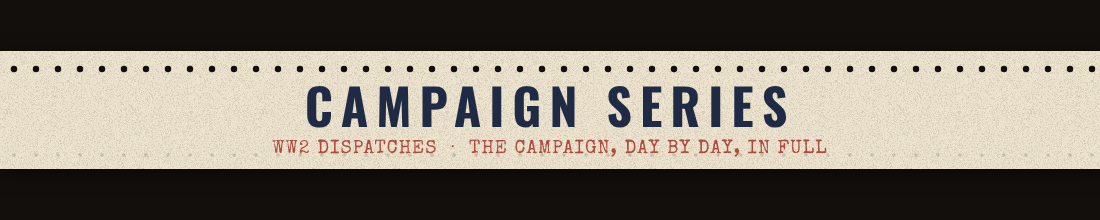
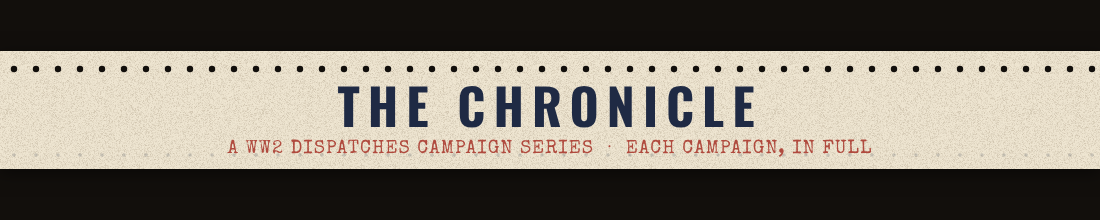
Campaign Series names: Day by Day (6:30 posts) and The Chronicle (Substack parts)
Claude-Session: https://claude.ai/code/session_01GNhz9ryDEhyVPfJv2sWR1J

Changed region(s): [[0.2782, 0.3818, 0.7418, 0.6], [0.1855, 0.6273, 0.8036, 0.7091]]

diff --git a/renderer/campaign_article.html b/renderer/campaign_article.html
@@ -13,7 +13,7 @@ body{margin:0}
    series reads as one thing, but built for Substack:
    cover  1456 x 1048 (Substack's 14:10 post thumbnail). Everything that matters sits inside the middle
           1456 x 762 band, so the 1.91:1 social crop (X, Facebook, link previews) keeps it all.
-          Tab: CAMPAIGN SERIES / series name / PART N OF M in red. Strip: the part title, then
+          Kicker: CAMPAIGN SERIES · series · THE CHRONICLE · PART N OF M. Strip: the part title, then
           BULLETINS · first date TO last date and WW2 DISPATCHES.
    banner 1100 x 220 (and 2200 x 440): the Campaign Series section's email banner. A cream teletype tape
           with feed holes across the dark night colour, no photo, so it fits every campaign. */
@@ -54,8 +54,10 @@ function cover(cv,img,p){
   const padX=64*s, innerW=W-2*padX;
   ctx.textBaseline="alphabetic"; ctx.textAlign="left";
   /* kicker */
-  const k1="CAMPAIGN SERIES  ·  "+(p.seriesName||"").toUpperCase()+"  ·  ", k2=`PART ${p.part} OF ${p.parts}`;
-  ctx.font=`500 ${24*s}px Oswald`; ctx.letterSpacing=`${5*s}px`;
+  const k1="CAMPAIGN SERIES  ·  "+(p.seriesName||"").toUpperCase()+"  ·  THE CHRONICLE  ·  ", k2=`PART ${p.part} OF ${p.parts}`;
+  let kf=24*s; ctx.letterSpacing=`${5*s}px`;
+  for(;kf>17*s;kf-=0.5*s){ctx.font=`500 ${kf}px Oswald`; if(ctx.measureText(k1+k2).width<=innerW) break;}
+  ctx.font=`500 ${kf}px Oswald`;
   const ky=ph+58*s; ctx.fillStyle=INK; ctx.fillText(k1,padX,ky);
   const k1w=ctx.measureText(k1).width; ctx.fillStyle=RED; ctx.fillText(k2,padX+k1w,ky);
   /* title */
@@ -88,9 +90,9 @@ function banner(cv){
   for(let x=14*s;x<W;x+=22*s){for(const yy of [th-14*s]){ctx.beginPath(); ctx.arc(x,ty+yy,1.8*s,0,Math.PI*2); ctx.fill();}}
   ctx.textBaseline="alphabetic"; ctx.textAlign="center";
   ctx.font=`700 ${50*s}px Oswald`; ctx.letterSpacing=`${8*s}px`; ctx.fillStyle=INK;
-  ctx.fillText("CAMPAIGN SERIES",W/2,ty+76*s);
+  ctx.fillText("THE CHRONICLE",W/2,ty+76*s);
   ctx.font=`400 ${19*s}px "Special Elite"`; ctx.letterSpacing=`${1*s}px`; ctx.fillStyle=RED;
-  ctx.fillText("WW2 DISPATCHES  ·  THE CAMPAIGN, DAY BY DAY, IN FULL",W/2,ty+102*s);
+  ctx.fillText("A WW2 DISPATCHES CAMPAIGN SERIES  ·  EACH CAMPAIGN, IN FULL",W/2,ty+102*s);
   ctx.textAlign="left";
 }
 window.renderCover=async function(p,photoDataUrl){

diff --git a/campaign-series/pearl-harbor-1941/articles/preview/part-01.html b/campaign-series/pearl-harbor-1941/articles/preview/part-01.html
@@ -35,7 +35,7 @@ a{color:#E9E1D0}
 </style></head><body>
 <div class="top"><span class="wm">WW2 DISPATCHES</span></div>
 <main>
-<div class="sec">CAMPAIGN SERIES</div>
+<div class="sec">CAMPAIGN SERIES · THE CHRONICLE</div>
 <h1>Pearl Harbor, Part 1: The Fleet Slips Away</h1>
 <p class="sub">26 to 29 November 1941. Six carriers vanish into the North Pacific while Washington warns of war everywhere but Hawaii, and in Tokyo the last voices for peace are heard and set aside.</p>
 <div class="by"><b>WW2 Dispatches</b> &nbsp;·&nbsp; Preview for 2026-11-30</div>
@@ -90,7 +90,7 @@ a{color:#E9E1D0}
 
 <hr />
 <p><em>Next: Part 2, 30 November to 3 December 1941.</em> A prince warns his brother the Emperor that the navy has doubts, Tokyo makes its final decision for war, and a coded signal tells the fleet to climb Mount Niitaka. Part 2 arrives Friday, 4 December.</p>
-<div class="strip"><h3>The daily dispatches, Days 1 to 4</h3><div class="grid"><img src="../../images/day-01-instagram.jpg"><img src="../../images/day-02-instagram.jpg"><img src="../../images/day-03-instagram.jpg"><img src="../../images/day-04-instagram.jpg"></div><p class="cap">The daily posts behind this part, as they ran at dawn on X, Instagram, Threads and Facebook.</p></div><h3>Sources</h3>
+<div class="strip"><h3>Day by Day: Days 1 to 4</h3><div class="grid"><img src="../../images/day-01-instagram.jpg"><img src="../../images/day-02-instagram.jpg"><img src="../../images/day-03-instagram.jpg"><img src="../../images/day-04-instagram.jpg"></div><p class="cap">The daily posts behind this part, as they ran at dawn on X, Instagram, Threads and Facebook.</p></div><h3>Sources</h3>
 <ul>
 <li>Track of the carrier task force: U.S. Army, <em>Reports of General MacArthur</em> (1966), via Wikimedia Commons.</li>
 <li>The war warning: Chief of Naval Operations dispatch 272337, 27 November 1941, Pearl Harbor Attack hearings exhibits (ibiblio.org/pha).</li>

diff --git a/renderer/campaign_article_preview.py b/renderer/campaign_article_preview.py
@@ -42,7 +42,7 @@ body = re.sub(r"<blockquote>.*?</blockquote>", bq, body, flags=re.S)
 d1, d2 = meta["days"]
 strip = "".join(
     f'<img src="{rel(f"campaign-series/{series}/images/day-{d:02d}-instagram.jpg")}">' for d in range(d1, d2 + 1))
-strip_html = (f'<div class="strip"><h3>The daily dispatches, Days {d1} to {d2}</h3>'
+strip_html = (f'<div class="strip"><h3>Day by Day: Days {d1} to {d2}</h3>'
               f'<div class="grid">{strip}</div>'
               f'<p class="cap">The daily posts behind this part, as they ran at dawn on X, Instagram, Threads and Facebook.</p></div>')
 # put the strip just before the sources
@@ -86,7 +86,7 @@ a{{color:#E9E1D0}}
 </style></head><body>
 <div class="top"><span class="wm">WW2 DISPATCHES</span></div>
 <main>
-<div class="sec">CAMPAIGN SERIES</div>
+<div class="sec">CAMPAIGN SERIES · THE CHRONICLE</div>
 <h1>{html.escape(meta['substackTitle'])}</h1>
 <p class="sub">{html.escape(meta['subtitle'])}</p>
 <div class="by"><b>WW2 Dispatches</b> &nbsp;·&nbsp; Preview for {meta['publish'][:10]}</div>

diff --git a/docs/WW2 Dispatches Campaign Series.md b/docs/WW2 Dispatches Campaign Series.md
@@ -2,6 +2,11 @@
 
 A daily social media serial that follows one campaign day by day, told as it happened, the RealTimeWWII way. Each series is researched, written, rendered, and scheduled **in one sitting** with the `campaign-series` skill, in the Campaign Series chat. **No scheduled task** runs it. The weekly runs only read its files so their wording never repeats it (Cards and Videos docs).
 
+**Names (decided 15 Nov 2026, Brian):** **Campaign Series** is the umbrella. It has two halves, and every place that shows them (Substack, ww2dispatches.com, covers, docs) uses these names so they are never confused:
+* **Day by Day:** the 6:30 a.m. daily posts on X, Instagram, Threads, and Facebook ("Pearl Harbor · Day by Day · Day 3"). The posts themselves don't change; their footer stays "Pearl Harbor · Day 3 of 12".
+* **The Chronicle:** the long Substack parts, the in depth version that fills the book on the Campaign Shelf ("Pearl Harbor · The Chronicle · Part 1: The Fleet Slips Away").
+* Not "dispatch" for either: the 8 a.m. cards are dispatches and the newsletter is The Weekly Dispatch.
+
 ## Status
 | Series | Dates | Days | State |
 |---|---|---|---|
@@ -41,7 +46,7 @@ Canvas: "Campaign Series Bulletin Mockup" (https://claude.ai/artifact/HKsV6D4kmG
 ## The day record
 `campaign-series/<series>/day-NN.json`: campaign, seriesName, day, days, date (YYYY-MM-DD, the historical date), time ("06:30"), series (battle, home, blue, state, for the analytics), place, subtitle, photo, photoCredit, focusX, focusY, zoom, body, threads (complete, with the footer), footer, hashtags (Instagram), hashtags_xf (X and Facebook), alt, sources, somber (optional), and `buffer` {x, instagram, threads, facebook}. Fixes go to the record first, then the Buffer post.
 
-## The volume: Substack parts (decided 14 Nov 2026, Brian; replaces the weekly roundups)
+## The Chronicle: the Substack parts (decided 14 Nov 2026, Brian; replaces the weekly roundups; named 15 Nov)
 The socials stay exactly as they are. The deep version of each series is its **volume**: 3 or 4 long parts on Substack, and the same parts are what the series' book on the Campaign Shelf holds. Each part reads like a chapter of a bound history of the campaign, not a recap of the posts.
 
 **Every part carries (the chapter standard):**
@@ -63,13 +68,13 @@ The socials stay exactly as they are. The deep version of each series is its **v
 
 **The look (different from the Weekly Dispatch)**
 Substack sets one theme for the whole publication (night background, brass gold, Anton titles, Libre Baskerville body, drop caps) and allows no custom code, so the difference comes from inside the post:
-* **Cover** (revised 14 Nov 2026, Brian), drawn by `renderer/campaign_article.html` with `node renderer/campaign_article.js <series> <part>`: the grayscale photo on top with **nothing laid over it**, then a cream panel under a thin red rule holding "CAMPAIGN SERIES · <SERIES> · PART N OF M" (part in red), the part title in Oswald bold, a **one line synopsis** in Libre Baskerville italic (`synopsis` in the part record), and the dates ("26 TO 29 NOVEMBER 1941") with WW2 DISPATCHES at right. No "bulletins". 1456 x 1048 (Substack's 14:10 thumbnail), with the panel text inside the middle 1.91:1 band so social previews keep it all. Set as the post's thumbnail and placed at the top of the post. (Weekly Dispatch covers are a dark photo with a white serif title and a gold tab.)
+* **Cover** (revised 14 Nov 2026, Brian), drawn by `renderer/campaign_article.html` with `node renderer/campaign_article.js <series> <part>`: the grayscale photo on top with **nothing laid over it**, then a cream panel under a thin red rule holding "CAMPAIGN SERIES · <SERIES> · THE CHRONICLE · PART N OF M" (part in red), the part title in Oswald bold, a **one line synopsis** in Libre Baskerville italic (`synopsis` in the part record), and the dates ("26 TO 29 NOVEMBER 1941") with WW2 DISPATCHES at right. No "bulletins". 1456 x 1048 (Substack's 14:10 thumbnail), with the panel text inside the middle 1.91:1 band so social previews keep it all. Set as the post's thumbnail and placed at the top of the post. (Weekly Dispatch covers are a dark photo with a white serif title and a gold tab.)
 * **Every part has its own cover photo** (Brian, 14 Nov 2026): a photo of that part's defining moment, never the book's cover on the Campaign Shelf, never another part's photo, and preferably not a photo the daily posts already used, so each part opens on something new. Read in order, the part covers should tell the volume's story by themselves. Pearl Harbor: Part 1, Zuikaku weighing anchor at Hitokappu Bay, 26 Nov 1941 (80-G-71198); Part 2, Kaga in heavy North Pacific seas with Zuikaku beyond, early Dec 1941, a frame from film shot aboard Akagi and found on Kiska in 1943 (NH 75483); Part 3, a Kate taking off from Shokaku on the morning of 7 Dec (80-G-182249; backup 80-G-182248, Shokaku's captain watching the launch). Chosen clear of the Flash card's moment.
 * **Title:** "<Series>, Part N: <Part title>", subtitle opens with the dates ("26 to 29 November 1941. ...").
 * **Written as a book chapter, not bulletins** (14 Nov 2026, Brian: the Substack audience are readers, so no teletype devices in the text). Each day is a section with a short literary title as a heading ("The Sortie") and an italic dateline under it ("*Hitokappu Bay, Kuril Islands, 26 November 1941*").
 * **Set off documents and voices** as block quotes that open with a bold label in sentence case (**Primary document.**, **From the record.**, **In their words.**) and end with a source line.
-* **End of part:** a rule, then one italic line "*Next: Part 2, 30 November to 3 December 1941.*" with a sentence on what it covers and the day it arrives, then a heading "The daily dispatches, Days 1 to 4" with a gallery of that part's daily images (Substack's image gallery), then Sources.
-* **Section:** a **Campaign Series** section on the Substack with its own email banner, `campaign-series/brand/campaign-series-email-banner.png` (1100 x 220, and @2x): a cream teletype tape with feed holes on the night color, "CAMPAIGN SERIES" and "WW2 DISPATCHES · THE CAMPAIGN, DAY BY DAY, IN FULL" in red. No photo, so it fits every campaign. (Check in the browser that Substack shows a section's own banner on its emails; if not, the cover at the top of the post does that job.) Readers can opt in or out of the section's emails apart from the Weekly Dispatch.
+* **End of part:** a rule, then one italic line "*Next: Part 2, 30 November to 3 December 1941.*" with a sentence on what it covers and the day it arrives, then a heading "Day by Day: Days 1 to 4" with a gallery of that part's daily images (Substack's image gallery), then Sources.
+* **Section:** a section on the Substack named **The Chronicle** (description: "A WW2 Dispatches Campaign Series. Each campaign, in full."), with its own email banner, `campaign-series/brand/campaign-series-email-banner.png` (1100 x 220, and @2x): a cream tape on the night color, "THE CHRONICLE" and "A WW2 DISPATCHES CAMPAIGN SERIES · EACH CAMPAIGN, IN FULL" in red. Its look is still to be judged in Substack (Brian may prefer the cover's cream panel style). No photo, so it fits every campaign. (Check in the browser that Substack shows a section's own banner on its emails; if not, the cover at the top of the post does that job.) Readers can opt in or out of the section's emails apart from the Weekly Dispatch.
 
 **Files:** `campaign-series/<series>/articles/part-NN.json` (part, parts, days [first, last], first, last, title, substackTitle, subtitle, synopsis, publish, coverPhoto, coverCredit, focusX, focusY, status) and `part-NN.md` (the article). `python3 renderer/campaign_article_preview.py <series> <part>` builds a preview styled like the Substack post page in `articles/preview/`. Extra photos and maps go in `photos/campaign/`.
 
@@ -127,6 +132,8 @@ Anchor days, each to be verified in the sitting (two sources); the rest are fill
 ## On ww2dispatches.com (the Campaign Shelf)
 **All website work belongs to the Website: Build and Fixes chat** (Brian, 15 Nov 2026). This chat and the build sittings only write the series files (day records, `articles/part-NN.json` and `.md`, covers, photos) and keep `shelf.json` current; the Website chat decides how the site shows them.
 
+**For the Website chat (15 Nov 2026): use the names.** The site labels the Substack parts **The Chronicle** and the 6:30 posts **Day by Day** everywhere they appear (volume page, part pages, the slips beside each section, navigation), under the umbrella Campaign Series, so readers never confuse them with the 8 a.m. dispatches.
+
 **Handed to the Website chat (15 Nov 2026): rebuild the Campaign Shelf around the Substack parts.** The parts are the main pull. The proposal from this chat, for the Website chat and Brian to adopt or change:
 * **The shelf** stays as built (a row of spines).
 * **A book opens to a title page and contents:** the book's cover, a short introduction (the campaign, its dates, why it mattered), then the parts as chapters, each with its own part cover, title, synopsis, and dates. A published part reads "Read Part 1"; a part not yet out shows sealed with "Arrives 4 December" (like the sealed Flash cards in Declass).
@@ -168,3 +175,4 @@ Until that change ships, the shelf works as built: every series is a volume on t
 * 14 Nov 2026 (later): the Bulge sitting covers only the posts; its parts are written in short sittings ahead of each date (Brian).
 * 15 Nov 2026: all website work moved to the Website: Build and Fixes chat (Brian); the Campaign Shelf rebuild handed there with this chat's proposal and eight options (a to h) for the daily posts.
 * 15 Nov 2026 (later): the Website chat's two rules for parts added to Files: `status` "final" before `publish`, and one `##` section per day in order.
+* 15 Nov 2026 (later): names decided (Brian): the 6:30 posts are **Day by Day** and the Substack parts are **The Chronicle**, under Campaign Series. Cover kicker, Substack section, banner, and preview updated; the Website chat asked to carry the names.

diff --git a/docs/WW2 Dispatches Newsletter.md b/docs/WW2 Dispatches Newsletter.md
@@ -99,7 +99,7 @@ One post per issue on X, Instagram, Threads, and Facebook, **Sunday at 10 a.m. M
 * **Scheduling:** the Friday run schedules all four in Buffer (custom time, Sunday 10:00 Mountain), using the card raw GitHub URLs, then rebuilds the review page, which shows the card and caption under Post it. If Brian decides not to send an issue, the posts are deleted.
 
 ## The Campaign Series section (from 30 Nov 2026)
-The same Substack also carries the **Campaign Series** volumes: 3 or 4 long parts per series, each live at 9 a.m. the morning after its last day runs (never on a Sunday), in their own **Campaign Series** section with their own teletype tape email banner and Teletype look covers, so they never look like a Weekly Dispatch issue. They are made in each series' build sitting, not by the weekly runs, and are not issues: no issue number, no share post, not in `newsletter/` or the issue archive (the site shows them on the Campaign Shelf). All rules are in the Campaign Series doc. When the section is created, decide whether existing subscribers get its emails (recommended: yes, with an easy opt out, since the parts are few and in depth).
+The same Substack also carries **The Chronicle**, the long form half of the Campaign Series: 3 or 4 long parts per series, each live at 9 a.m. the morning after its last day runs (never on a Sunday), in their own section, **The Chronicle**, with its own email banner and Teletype look covers, so they never look like a Weekly Dispatch issue. They are made in each series' build sitting, not by the weekly runs, and are not issues: no issue number, no share post, not in `newsletter/` or the issue archive (the site shows them on the Campaign Shelf). All rules are in the Campaign Series doc. When the section is created, decide whether existing subscribers get its emails (recommended: yes, with an easy opt out, since the parts are few and in depth).
 
 ## Signup points
 * The Weekly Dispatch signup box on the ww2dispatches.com home page (since 1 Nov 2026: "One remarkable story from that week in the war, told in full. Free by email.", then the Latest issue line and All issues, then the form). It posts to Substack's free signup in a hidden frame, so the visitor stays on our page and sees "Almost done. Check your inbox to confirm." Substack logs these as "external form / api". Tested 21 Oct 2026.

diff --git a/docs/WW2 Dispatches Roadmap.md b/docs/WW2 Dispatches Roadmap.md
@@ -14,8 +14,8 @@ Started 15 Oct 2026. Goal: post every day from launch (Sat 17 Oct 2026) and keep
 * The four series are not tied to any time. Any series can run in any slot. The 2:30 slot is always Axis, but the other slots are not Allied only.
 
 **During a Campaign Series** (dates set per series; Pearl Harbor 26 Nov to 7 Dec 2026, the Bulge 16 Dec 2026 to 14 Jan 2027)
-* **6:30 a.m., the Campaign Series post** (6:45 and 7:00 for a second or third series that overlaps). X, Instagram, Threads, Facebook. Not a card, no number. Scheduled in one sitting per series. (Campaign Series doc)
-* **9:00 a.m. the morning after each part's last day, a Campaign Series part** on Substack (moves to Monday if it falls on a Sunday), 3 or 4 per series, in the Campaign Series section. (Campaign Series doc)
+* **6:30 a.m., the Campaign Series post (Day by Day)** (6:45 and 7:00 for a second or third series that overlaps). X, Instagram, Threads, Facebook. Not a card, no number. Scheduled in one sitting per series. (Campaign Series doc)
+* **9:00 a.m. the morning after each part's last day, a Campaign Series part (The Chronicle)** on Substack (moves to Monday if it falls on a Sunday), 3 or 4 per series, in The Chronicle section. (Campaign Series doc)
 
 **Wednesday and Saturday only**
 * **10:00 a.m., Name This.** X (into an X Community, through Typefully), Threads (History Threads community), Facebook Page, and Instagram (a two week test, see Open decisions), the last three through Buffer. No dispatch number. (Name This doc)
